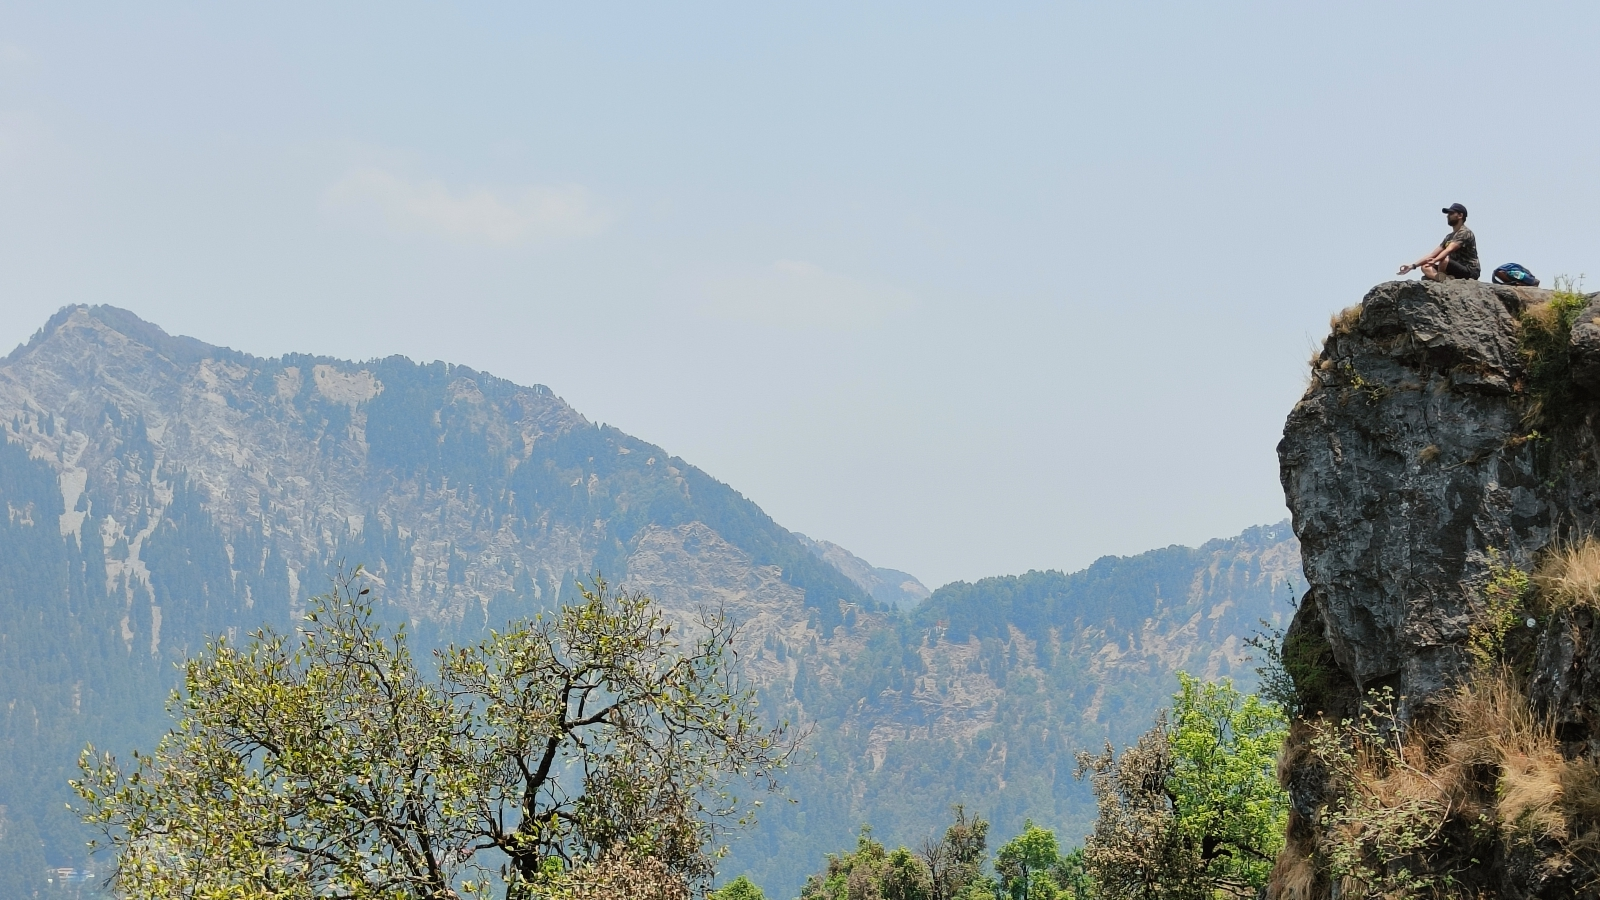
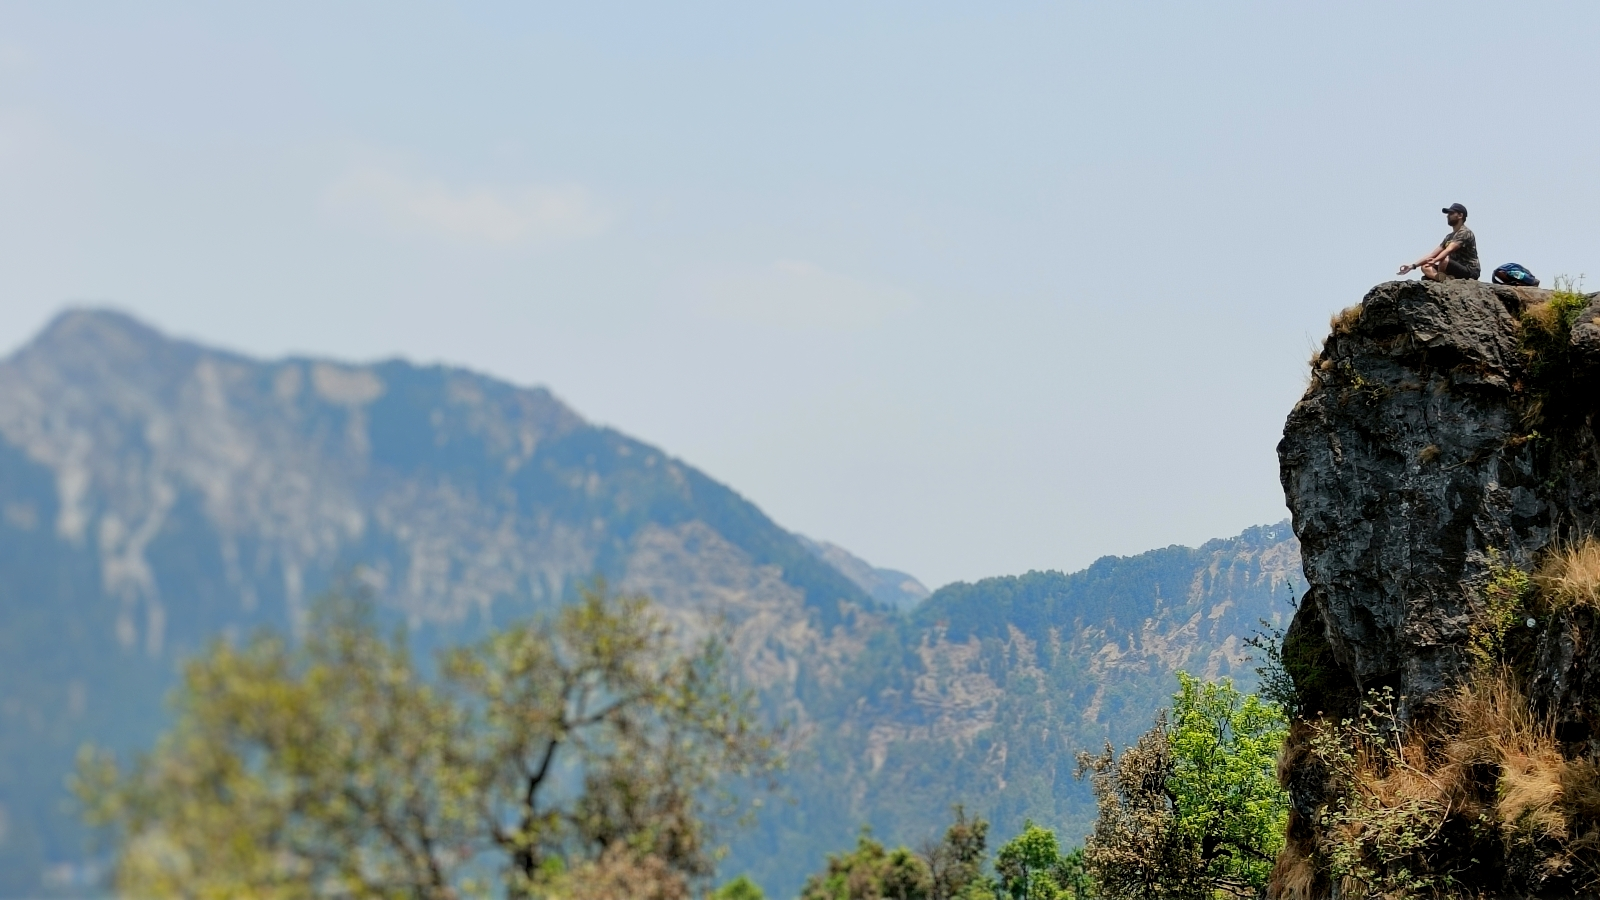
hero updated, meta updated

Changed region(s): [[0.0, 0.3111, 1.0, 1.0]]

diff --git a/index.html b/index.html
@@ -2,49 +2,35 @@
 <html lang="en">
 
 <head>
-  <meta charset="UTF-8" />
-  <link rel="icon" type="image/svg+xml" href="./favicon.ico" />
-  <meta content="yes" name="apple-mobile-web-app-capable">
-  <link rel="icon" type="image/png" sizes="32x32" href="./favicon-32x32.png">
-  <link rel="icon" type="image/png" sizes="16x16" href="./favicon-16x16.png">
-  <link rel="shortcut icon" href="./favicon.ico">
-  <meta name="msapplication-TileColor" content="#222222">
-  <meta name="theme-color" content="#222222" />
-  <link rel="preload" href="/src/assets/fonts/Aliya-Regular.ttf" as="font" type="font/ttf" crossorigin="anonymous" />
-  <link rel="preload" href="/src/assets/fonts/CormorantGaramond/CormorantGaramond-SemiBold.ttf" as="font" type="font/ttf" crossorigin="anonymous" />
-  <link rel="preload" href="/src/assets/fonts/CormorantGaramond/CormorantGaramond-Bold.ttf" as="font" type="font/ttf" crossorigin="anonymous" />
-  <link rel="preload" href="/src/assets/fonts/SourceSans3/SourceSans3-Regular.ttf" as="font" type="font/ttf" crossorigin="anonymous" />
-  <meta content="width=device-width, initial-scale=1, maximum-scale=1.0, user-scalable=no" name="viewport">
+  <meta charset="UTF-8">
   <meta name="author" content="Faisal Akhtar">
-  <meta name="keywords"
-    content="Faisal, Akhtar, Faisal Akhtar, Embedded Engineer, Optical Systems, Networking, Software Developer, C++, C, Linux, VxWorks, OSRP, Control Plane, CIENA, MRV Research, Developer Portfolio, Programmer, System Design, Low-Level Programming, Debugging, Optimization, NodeJS, JavaScript, HTML, CSS, React.js, UI/UX, AWS, Data Structures, Algorithms, NoSQL, Database Design, Cloud Computing, Ramanujan College, Delhi University, DU, Computer Science, Full-Stack, Web Design, Open Source">
-  <meta name="title" content="Faisal Akhtar — My web portfolio">
-  <meta name="description"
-    content="Hi, I'm Faisal Akhtar, an Embedded & Optical Systems Engineer with expertise in C++, networking, system-level programming and I occasionally design websites for fun">
+  <link rel="icon" href="/favicon.ico" sizes="any">
+  <link rel="icon" type="image/png" sizes="32x32" href="/favicon-32x32.png">
+  <link rel="icon" type="image/png" sizes="16x16" href="/favicon-16x16.png">
+  <meta name="theme-color" content="#f6f3ed">
+  <meta name="color-scheme" content="light">
+  <meta name="viewport" content="width=device-width, initial-scale=1, maximum-scale=1.0, user-scalable=no">
+  <link rel="canonical" href="https://faisals-bucketlist.netlify.app">
+  <meta name="robots" content="index,follow">
+  <meta name="referrer" content="strict-origin-when-cross-origin">
+  <link rel="preload" href="/src/assets/fonts/Aliya-Regular.ttf" as="font" type="font/ttf" crossorigin="anonymous" />
+  <link rel="preload" href="/src/assets/fonts/PoynterOS/PoynterOldstyleText-Roman.woff2" as="font" type="font/woff2" crossorigin="anonymous" />
+  <link rel="preload" href="/src/assets/fonts/SourceSans3/source-sans-3-latin-400-normal.woff2" as="font" type="font/woff2" crossorigin="anonymous" />
+  <meta name="author" content="Faisal Akhtar">
+  <meta name="keywords" content="bucket list, life eventually, Faisal Akhtar, adventures, travel, personal website, life goals, memories, experiences, dreams, checklist, photography, travel journal">
+  <meta name="title" content="Life, Eventually | A bucket list for a life well lived by Faisal">
+  <meta name="description" content="A living collection of dreams, adventures and experiences. Some lived, some awaited. Journaling my journey as I slowly cross them off, one memory at a time.">
+  <meta property="og:title" content="Life, Eventually | A bucket list for a life well lived by Faisal">
+  <meta property="og:description" content="A personal bucket list documenting adventures completed, dreams yet to come, and the stories collected along the way.">
   <meta property="og:type" content="website">
-  <meta property="og:url" content="https://faisalakhtar.github.io">
-  <meta property="og:site_name" content="Faisal Akhtar — My web portfolio">
-  <meta property="og:title" content="Faisal Akhtar — My web portfolio">
-  <meta property="og:description"
-    content="Hi, I'm Faisal Akhtar, an Embedded & Optical Systems Engineer with expertise in C++, networking, system-level programming and I occasionally design websites for fun">
-  <meta property="og:type" content="website">
-  <meta property="og:image" itemprop="image" content="https://faisalakhtar.github.io/img/OG-image-large.jpg">
-  <meta property="og:image:type" content="image/jpg">
-  <meta property="og:image:width" content="1200">
-  <meta property="og:image:height" content="628">
-  <meta property="og:image" itemprop="image" content="https://faisalakhtar.github.io/img/OG-image-small.jpg">
-  <meta property="og:image:type" content="image/jpg">
-  <meta property="og:image:width" content="400">
-  <meta property="og:image:height" content="400">
+  <meta property="og:image" content="https://raw.githubusercontent.com/faisalAkhtar/life-eventually/refs/heads/main/preview.jpg">
+  <meta property="og:url" content="https://faisals-bucketlist.netlify.app/">
+  <meta property="og:site_name" content="Life, Eventually.">
   <meta name="twitter:card" content="summary_large_image">
-  <meta name="twitter:url" content="https://faisalakhtar.github.io">
-  <meta name="twitter:site_name" content="Faisal Akhtar — My web portfolio">
-  <meta name="twitter:title" content="Faisal Akhtar — My web portfolio">
-  <meta name="twitter:description"
-    content="Hi, I'm Faisal Akhtar, an Embedded & Optical Systems Engineer with expertise in C++, networking, system-level programming and I occasionally design websites for fun">
-  <meta name="twitter:type" content="website">
-  <meta name="twitter:image" itemprop="image" content="https://faisalakhtar.github.io/img/OG-image-large.jpg">
-  <meta name="twitter:image:alt" content="Faisal smiling at you">
+  <meta name="twitter:title" content="Life, Eventually | A bucket list for a life well lived by Faisal">
+  <meta name="twitter:description" content="A personal bucket list documenting adventures completed, dreams yet to come, and the stories collected along the way.">
+  <meta name="twitter:image" content="https://raw.githubusercontent.com/faisalAkhtar/life-eventually/refs/heads/main/preview.jpg">
+  <meta name="twitter:image:alt" content="Preview of the Life, Eventually bucket list website">
   <title>Life Eventually | Faisal Akhtar</title>
 </head>
 

diff --git a/src/components/Header/Header.css b/src/components/Header/Header.css
@@ -1,14 +1,36 @@
 .heroDiv {
-  background-image: url('/hero-large.jpg');
-  background-position-x: right;
-  background-position-y: top;
-  background-size: cover;
+  position: relative;
+  overflow: hidden;
+  color: #ffffff;
   padding: 48px 100px;
+
+  &::before {
+    content: "";
+    position: absolute;
+    top: 0;
+    left: 0;
+    right: 0;
+    bottom: 0;
+    z-index: 1;
+    /* filter: brightness(0.9); */
+
+    /* Optional: Fixes the white/blurry edges caused by the blur filter */
+    /* transform: scale(1.05); */
+
+    background-image: url('/hero-large.jpg');
+    background-position-x: right;
+    background-position-y: top;
+    background-size: cover;
+  }
+}
+
+.heroDiv * {
+  position: relative;
+  z-index: 2;
 }
 
 .heroContent {
   max-width: 760px;
-  text-shadow: 1px 0 1px white;
   color: var(--text);
 }
 
@@ -22,46 +44,28 @@
 .heroTitle {
   font-family: var(--font-heading);
   font-size: clamp(3.8rem, 8vw, 6rem);
-  font-weight: normal;
+  font-weight: 500;
   margin-top: 60px;
 }
 
 .heroStatsDiv {
-  display: flex;
-  align-items: center;
-  gap: 2rem;
-  margin-top: 8rem;
-  padding-left: 24px;
+  color: var(--text);
+  margin-top: 60px;
 }
 
-.heroStat {
-  display: flex;
-  flex-direction: column;
-  color: var(--text-inv);
-  text-shadow: 1px 0 1px black;
+.heroStatsDiv {
+  font-size: 24px;
+  color: var(--text);
+  text-shadow: 0 2px 4px rgba(255, 255, 255, 1), 0 0 10px rgba(255, 255, 255, 0.5);
 }
 
-.heroStat span {
+.heroStatsDiv span {
   font-family: var(--font-heading);
-  font-size: 2.2rem;
-}
-
-.heroStat small {
-  margin-top: .35rem;
-  text-transform: uppercase;
-  letter-spacing: .12em;
-  font-weight: bold;
-}
-
-.heroDivider {
-  width: 1px;
-  height: 50px;
-  background: rgba(128, 128, 128, 0.5);
 }
 
 .progressContainer {
   width: 100%;
-  background-color: var(--background);
+  background-color: var(--progress-bg);
   border-radius: 6px;
   overflow: hidden;
   margin-top: 1rem;
@@ -70,12 +74,12 @@
 .progressBar {
   height: 16px;
   border-radius: 6px;
-  background-color: var(--text);
+  background-color: var(--progress);
   transition: width 0.4s ease;
 }
 
 @media (max-width:1280px) {
-  .heroDiv {
+  .heroDiv::before {
     background-image: url('/hero-medium.jpg');
   }
 
@@ -95,6 +99,7 @@
 
   .heroStatsDiv {
     margin-top: 6rem;
+    font-size: 20px;
   }
 
   .heroTitle {
@@ -104,18 +109,24 @@
   .heroDescription {
     font-size: 1.05rem;
   }
-
-  .heroStats {
-    gap: 1.5rem;
-  }
 }
 
 @media (max-width:1024px) {
-  .heroDiv {
+  .heroDiv::before {
     background-image: url('/hero-small.jpg');
   }
 
   .heroStatsDiv {
     margin-top: 4rem;
+    font-size: 16px;
+  }
+
+  .progressContainer {
+    border-radius: 6px;
+  }
+
+  .progressBar {
+    height: 12px;
+    border-radius: 6px;
   }
 }

diff --git a/src/components/Header/index.jsx b/src/components/Header/index.jsx
@@ -18,15 +18,7 @@ export default function Header({ completed, total }) {
         </h1>
 
         <div className="heroStatsDiv">
-          <div className="heroStat">
-            <span>{total}</span>
-            <small>Dreams</small>
-          </div>
-          <div className="heroDivider" />
-          <div className="heroStat">
-            <span>{completed}</span>
-            <small>Fulfilled</small>
-          </div>
+          <span>{completed} / {total}</span> dreams fulfilled
         </div>
 
         <div className="progressContainer">

diff --git a/src/components/SmallScreenNavbar/index.jsx b/src/components/SmallScreenNavbar/index.jsx
@@ -35,7 +35,7 @@ export default function SmallScreenNavbar({ selected, setSelected }) {
         className={selected === 3 ? "smallNavbarItem selected" : "smallNavbarItem"}
       >
         <QuoteSvg className="smallNavbarSvg" />
-        <div className="smallNavbarTxt">Quote</div>
+        <div className="smallNavbarTxt">Inspo</div>
       </div>
     </div>
   );

diff --git a/src/components/CollectionCard/CollectionCard.css b/src/components/CollectionCard/CollectionCard.css
@@ -2,6 +2,7 @@
   position: relative;
   text-align: center;
   font-size: 14px;
+  padding: 0 4px;
 }
 
 .cardImgDiv {
@@ -129,7 +130,6 @@
   }
 
   .cardTitle {
-    font-size: 14px;
     margin: 4px 0;
   }
 }

diff --git a/src/components/Statistics/Statistics.css b/src/components/Statistics/Statistics.css
@@ -60,7 +60,7 @@
   }
 
   &:nth-child(2) {
-    font-weight: 600;
+    font-family: var(--font-heading);
     text-align: center;
   }
 }

diff --git a/README.md b/README.md
@@ -1,6 +1,6 @@
 # Life, Eventually.
 
-> *Some dreams have become memories. Some are still waiting for the right day.*
+![preview](preview.jpg)
 
 A few years ago, I began keeping a list of experiences I wanted to have before I grew old enough to call them "things I want to do before I die"
 
